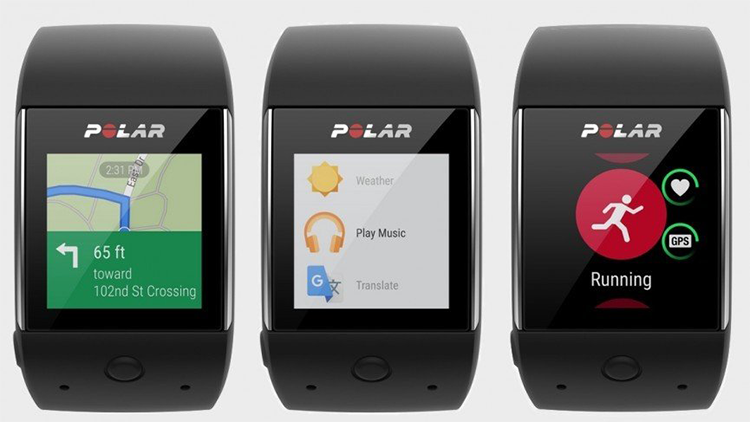
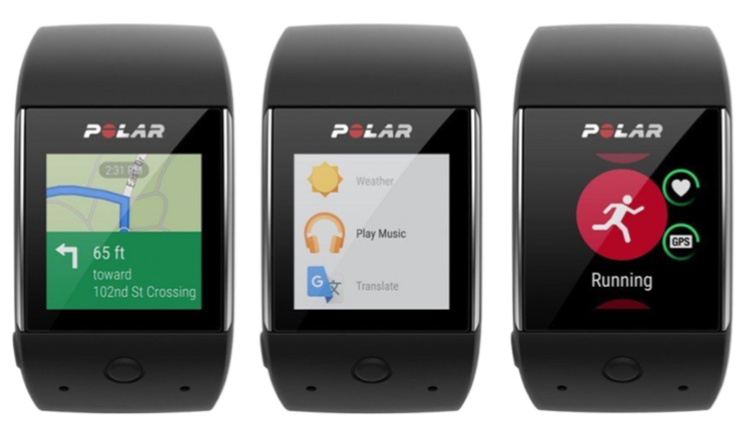
in carousel section was update picture also arrows was changed to svg format

diff --git a/src/js/script.js b/src/js/script.js
@@ -2,8 +2,8 @@ $(document).ready(function () {
     $('.carousel__inner').slick({
         speed: 1200,
         // adaptiveHeight: true,
-        prevArrow: '<button type="button" class="slick-prev"><img src="icons/left.png"></button>',
-        nextArrow: '<button type="button" class="slick-next"><img src="icons/right.png"></button>',
+        prevArrow: '<button type="button" class="slick-prev"><img src="icons/left.svg"></button>',
+        nextArrow: '<button type="button" class="slick-next"><img src="icons/right.svg"></button>',
         responsive: [
             {
                 breakpoint: 768,
